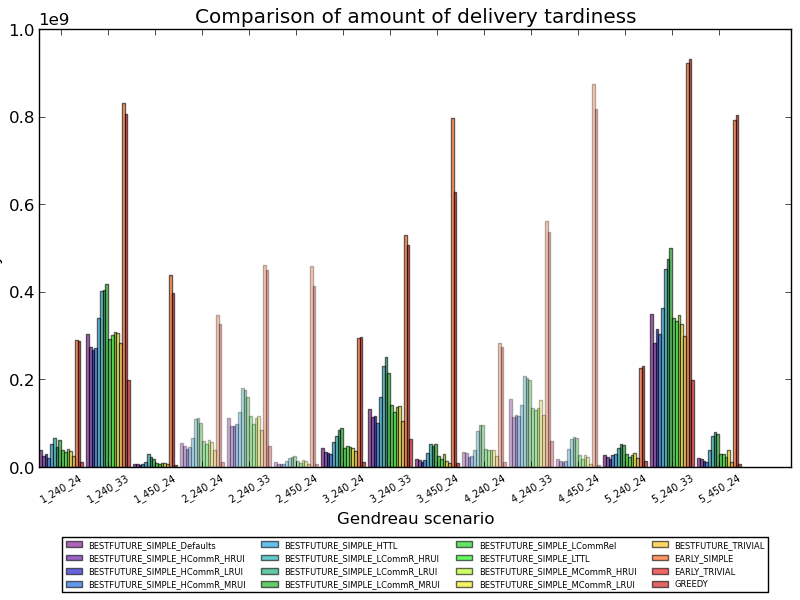
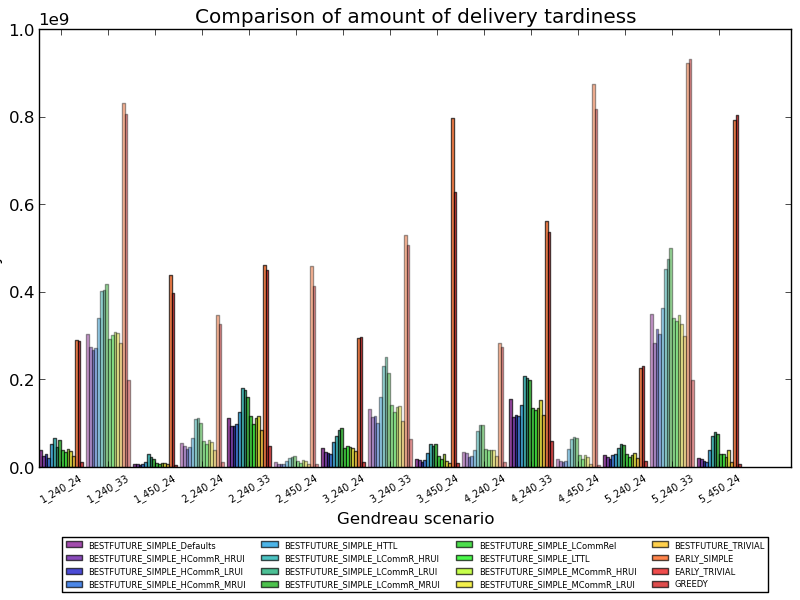
plot afwisselend opacity per instance

diff --git a/visualise_experiment.py b/visualise_experiment.py
@@ -23,7 +23,7 @@ for arg in sys.argv[1:]:
             experiment[configuration][resource] = statistics
 
 
-    opacity = 0.6
+    opacity = 0.7
     lighten = 0.3
     
     nr_configurations = len(experiment.keys())
@@ -39,11 +39,11 @@ for arg in sys.argv[1:]:
     bar_width = 1.0/(nr_configurations + 1)
 
     for var in sorted(titles.iterkeys()):
-        for index, config in enumerate(sorted(experiment.iterkeys())):
-            for res_i in xrange(0, nr_resources*nr_scenarios, 3):
+        for conf_i, config in enumerate(sorted(experiment.iterkeys())):
+            for res_i in xrange(0, nr_resources*nr_scenarios, 1):
                 statistics = []
-                for resource in sorted(
-                        experiment[config].iterkeys())[res_i:res_i+3]:
+                for resource in [sorted(
+                        experiment[config].iterkeys())[res_i]]:
                     statistics.append(experiment[config][resource][var])
 
                 if res_i == 0:
@@ -51,11 +51,11 @@ for arg in sys.argv[1:]:
                 else:
                     label = '_nolegend_'
 
-                plt.bar(scenario_index + res_i + index*bar_width,
+                plt.bar(res_i + conf_i*bar_width,
                         statistics,
                         bar_width,
                         alpha=opacity - res_i%2 * lighten,
-                        color=spectral.to_rgba(index),
+                        color=spectral.to_rgba(conf_i),
                         label=label)
         
         plt.xlabel('Gendreau scenario')
